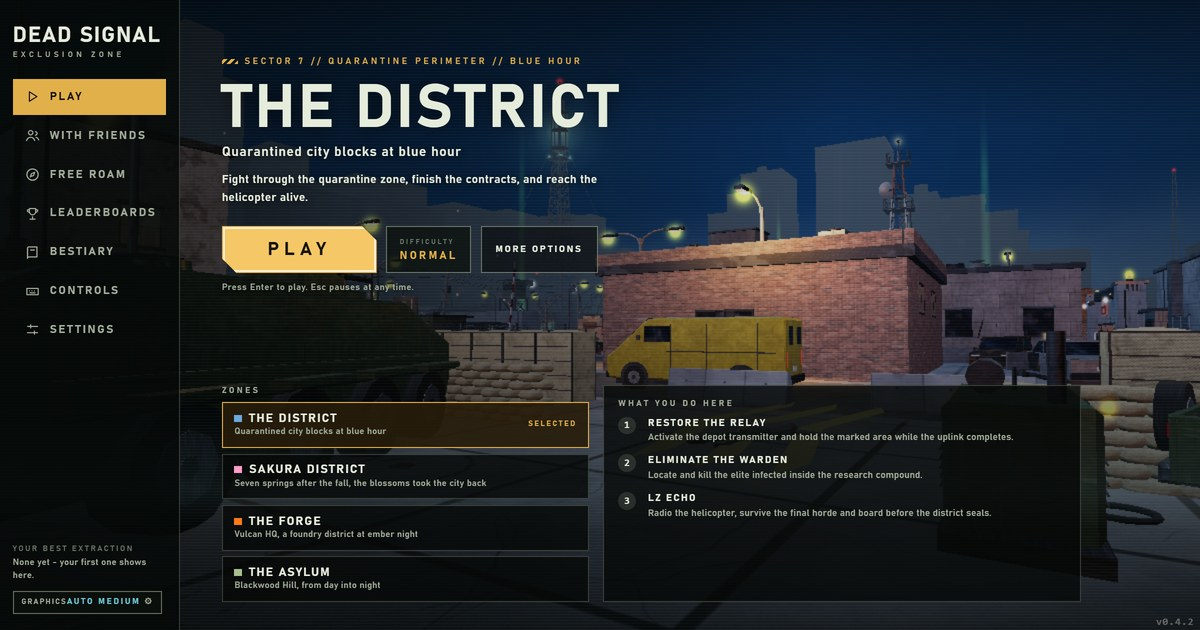
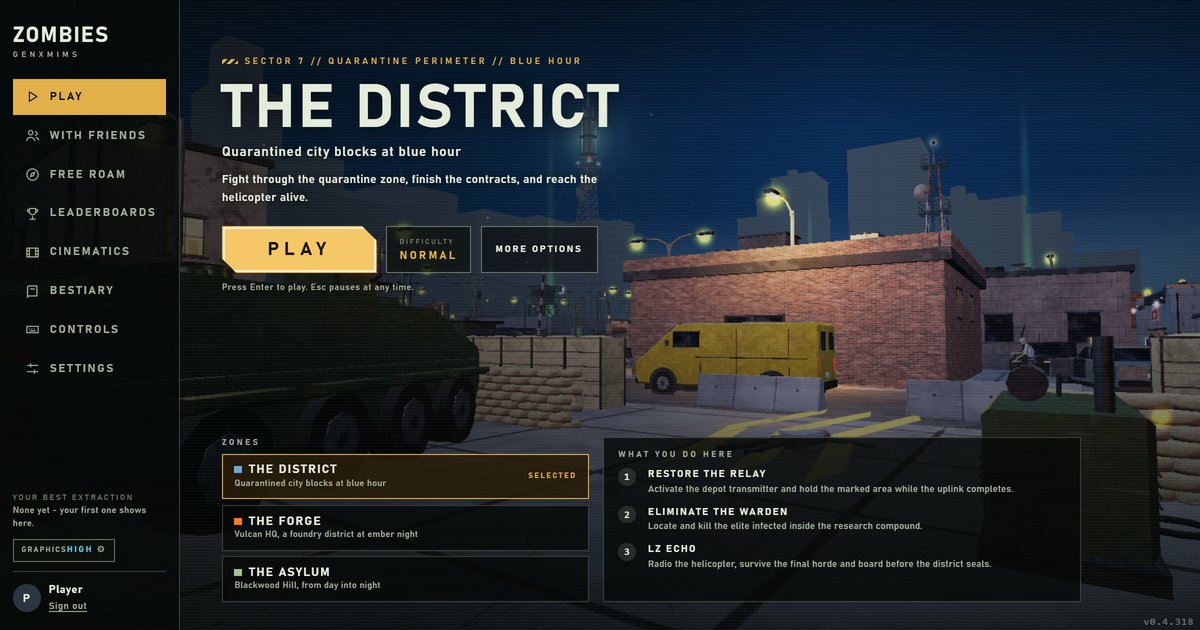
v0.4.319: a new share card (the title screen as ZOMBIES GENXMIMS over The District) and the search details under the new name - free, in the browser, no download, The District playable without signing up; structured data says it is free (an Offer at 0) with GenXmims as creator and the old name as an

diff --git a/index.html b/index.html
@@ -8,33 +8,37 @@
     <meta name="apple-mobile-web-app-status-bar-style" content="black" />
     <meta name="theme-color" content="#0b1118" />
     <link rel="icon" href="/favicon.svg" type="image/svg+xml" />
-    <title>Zombies GenXmims - zombie survival FPS in your browser</title>
-    <meta name="description" content="Fight through the quarantine zone, finish the contracts and reach the helicopter alive. Zombie survival FPS in your browser - solo with an AI squad or co-op with friends." />
-    <meta name="keywords" content="zombie game, browser FPS, zombie survival, extraction shooter, co-op zombies, WebGL game, Three.js game, Zombies GenXmims" />
+    <title>Zombies GenXmims - free zombie survival FPS in your browser</title>
+    <meta name="description" content="Free zombie survival FPS in your browser: fight through the quarantine zone, finish the contracts and reach the helicopter alive. Play The District straight away with no sign-up or download - solo with an AI squad, or co-op with friends." />
+    <meta name="application-name" content="Zombies GenXmims" />
+    <meta name="apple-mobile-web-app-title" content="Zombies GenXmims" />
+    <meta name="author" content="GenXmims" />
+    <meta name="keywords" content="Zombies GenXmims, GenXmims, zombie game, free zombie game, browser zombie game, play zombie game online, no download, browser FPS, zombie survival, extraction shooter, co-op zombies, WebGL game, Three.js game" />
     <meta name="robots" content="index, follow, max-image-preview:large" />
     <link rel="canonical" href="https://zombies.genxmims.org/" />
     <!-- link previews (Discord, X, WhatsApp, Slack, iMessage...): the title screen as players see it -->
     <meta property="og:type" content="website" />
     <meta property="og:site_name" content="Zombies GenXmims" />
-    <meta property="og:title" content="Zombies GenXmims" />
-    <meta property="og:description" content="Fight through the quarantine zone, finish the contracts and reach the helicopter alive. Zombie survival FPS in your browser - solo or co-op." />
+    <meta property="og:title" content="Zombies GenXmims - free zombie survival FPS in your browser" />
+    <meta property="og:description" content="Free zombie survival FPS in your browser - no download, no sign-up to start. Fight through the quarantine zone and reach the helicopter alive, solo or co-op." />
     <meta property="og:url" content="https://zombies.genxmims.org/" />
     <meta property="og:image" content="https://zombies.genxmims.org/og-image.jpg" />
     <meta property="og:image:type" content="image/jpeg" />
     <meta property="og:image:width" content="1200" />
     <meta property="og:image:height" content="630" />
-    <meta property="og:image:alt" content="The Zombies GenXmims title screen: The District, quarantined city blocks at blue hour, with the zones to pick from" />
+    <meta property="og:image:alt" content="The Zombies GenXmims title screen: ZOMBIES GENXMIMS over The District, quarantined city blocks at blue hour, with the zones to pick from" />
     <meta property="og:locale" content="en_US" />
     <meta name="twitter:card" content="summary_large_image" />
-    <meta name="twitter:title" content="Zombies GenXmims" />
-    <meta name="twitter:description" content="Fight through the quarantine zone, finish the contracts and reach the helicopter alive. Zombie survival FPS in your browser - solo or co-op." />
+    <meta name="twitter:title" content="Zombies GenXmims - free zombie survival FPS in your browser" />
+    <meta name="twitter:description" content="Free zombie survival FPS in your browser - no download, no sign-up to start. Fight through the quarantine zone and reach the helicopter alive, solo or co-op." />
     <meta name="twitter:image" content="https://zombies.genxmims.org/og-image.jpg" />
-    <meta name="twitter:image:alt" content="The Zombies GenXmims title screen: The District, quarantined city blocks at blue hour, with the zones to pick from" />
+    <meta name="twitter:image:alt" content="The Zombies GenXmims title screen: ZOMBIES GENXMIMS over The District, quarantined city blocks at blue hour, with the zones to pick from" />
     <script type="application/ld+json">
       {
         "@context": "https://schema.org",
         "@type": "VideoGame",
         "name": "Zombies GenXmims",
+        "alternateName": ["ZOMBIES GENXMIMS", "Dead Signal"],
         "url": "https://zombies.genxmims.org/",
         "image": "https://zombies.genxmims.org/og-image.jpg",
         "description": "A zombie extraction-survival FPS that plays in your browser: fight through the quarantine zone, finish the contracts and reach the helicopter alive, solo with an AI squad or in co-op with friends.",
@@ -43,6 +47,10 @@
         "applicationCategory": "Game",
         "operatingSystem": "Any (desktop browser with WebGL 2)",
         "playMode": ["SinglePlayer", "CoOp"],
+        "isAccessibleForFree": true,
+        "offers": { "@type": "Offer", "price": "0", "priceCurrency": "USD", "availability": "https://schema.org/InStock" },
+        "creator": { "@type": "Organization", "name": "GenXmims" },
+        "publisher": { "@type": "Organization", "name": "GenXmims" },
         "inLanguage": "en"
       }
     </script>

diff --git a/bestiary.html b/bestiary.html
@@ -18,9 +18,12 @@
     <meta property="og:image:type" content="image/jpeg" />
     <meta property="og:image:width" content="1200" />
     <meta property="og:image:height" content="630" />
-    <meta property="og:image:alt" content="The Zombies GenXmims title screen: The District, quarantined city blocks at blue hour, with the zones to pick from" />
+    <meta property="og:image:alt" content="The Zombies GenXmims title screen: ZOMBIES GENXMIMS over The District, quarantined city blocks at blue hour, with the zones to pick from" />
     <meta name="twitter:card" content="summary_large_image" />
+    <meta name="twitter:title" content="Bestiary - Zombies GenXmims" />
+    <meta name="twitter:description" content="Every infected in Zombies GenXmims, in 3D: the horde, the elites, the Mazoku card carriers and the people who fight beside you." />
     <meta name="twitter:image" content="https://zombies.genxmims.org/og-image.jpg" />
+    <meta name="twitter:image:alt" content="The Zombies GenXmims title screen: ZOMBIES GENXMIMS over The District, quarantined city blocks at blue hour, with the zones to pick from" />
   </head>
   <body>
     <div id="bestiary"></div>

diff --git a/freeroam.html b/freeroam.html
@@ -5,7 +5,7 @@
     <meta name="viewport" content="width=device-width, initial-scale=1.0, viewport-fit=cover" />
     <meta name="theme-color" content="#07040c" />
     <link rel="icon" href="/favicon.svg" type="image/svg+xml" />
-    <title>Excalibur - Free Roam</title>
+    <title>Excalibur - Free Roam | Zombies GenXmims</title>
     <meta name="description" content="A free-roam film set: a black-armoured knight and a giant fight it out in a ruined courtyard until she draws on the dark and brings Excalibur down. Watch it as a film, or walk and fly anywhere through it - and through the ruins it leaves." />
     <meta name="robots" content="index, follow, max-image-preview:large" />
     <link rel="canonical" href="https://zombies.genxmims.org/freeroam.html" />

diff --git a/hollow.html b/hollow.html
@@ -5,7 +5,7 @@
     <meta name="viewport" content="width=device-width, initial-scale=1.0, viewport-fit=cover" />
     <meta name="theme-color" content="#04070c" />
     <link rel="icon" href="/favicon.svg" type="image/svg+xml" />
-    <title>Slime Hollow - Cinematic</title>
+    <title>Slime Hollow - Cinematic | Zombies GenXmims</title>
     <meta name="description" content="A burned village, an army at the gate, and the night the Hollow Slime takes Kael: a 76-second anime cinematic with its own score and voices. Watch it as a film, or walk and fly through it while it plays." />
     <meta name="robots" content="index, follow, max-image-preview:large" />
     <link rel="canonical" href="https://zombies.genxmims.org/hollow.html" />
